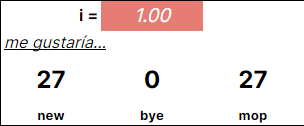
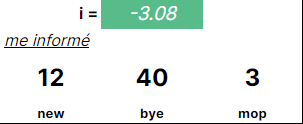
GitBook: [#54] No subject

diff --git a/depth/volume-matrix/3.-ivulcan.md b/depth/volume-matrix/3.-ivulcan.md
@@ -24,13 +24,13 @@ Solo reemplaza la fórmula con tus _**new**_, _**bye**_ y _**mop**_ x cada chann
 
 El índice de Vulcan es un cociente, entre más se acerque al 1, más cerca de un canal perfecto en efectividad.
 
-<figure><img src="../../.gitbook/assets/image (3).png" alt=""><figcaption><p>Ejemplo balance</p></figcaption></figure>
+<figure><img src="../../.gitbook/assets/image (3) (1).png" alt=""><figcaption><p>Ejemplo balance</p></figcaption></figure>
 
 Si tengo 27 _new_, 0 _bye_ y 27 _mop_, tengo un canal tan _efectivo_, que tiene la misma cantidad de leads nuevos como convertidos.
 
 El ejemplo opuesto es un canal desbalanceado o _inefectivo_.
 
-<figure><img src="../../.gitbook/assets/image.png" alt=""><figcaption><p>Ejemplo desbalance</p></figcaption></figure>
+<figure><img src="../../.gitbook/assets/image (3).png" alt=""><figcaption><p>Ejemplo desbalance</p></figcaption></figure>
 
 Al ir llenando cada uno, tendremos una matriz terminada.
 
